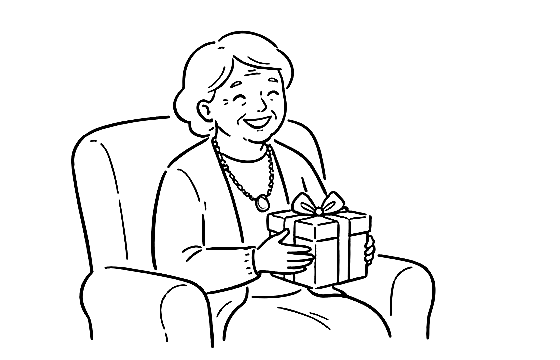
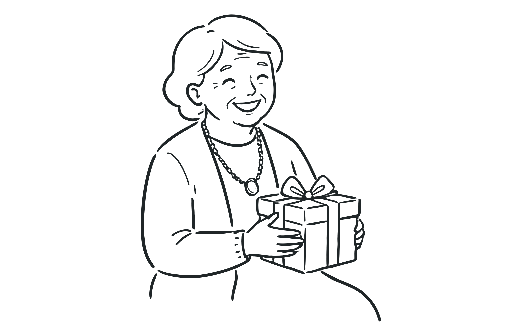
feat: v úvodní obrazovce se střídají čtyři kreslené scény
Zadavatel dodal předlohu se čtyřmi scénami v mřížce 2x2 (verze bez pozadí —
bez křesla, okna a zahrady). Rozřezal je scripts/kresby-z-predlohy.py, který
zůstává v repozitáři, aby šla výměna zopakovat, až předloha přijde znovu.

Tři věci, které v tom skriptu nejsou zřejmé:
  * Papír se odbarvuje s prahem 165 a plynulým přechodem. Při mírnějším
    prahu zůstane po podkladu našedlý čtverec — přesně to zadavatel jednou
    vytkl slovy „vypadá to jako špinavé".
  * Tah dostane jednu plnou barvu a všechny odstíny nese průhlednost.
    Předloha je černá linka, takže se nic neztrácí, ale barevné kanály se
    tím srovnají do jednolité plochy: soubory spadly ze 158 kB na 10 kB.
  * NEZVĚTŠUJE SE. Průhlednost je v předloze skoro dvouhodnotová a skvěle se
    komprimuje; jakékoli přepočítání z ní udělá plynulý přechod podél každé
    linky. Naměřeno 10 kB nativně, 87 kB při 1,4x, 158 kB při dvojnásobku —
    a bez jediného detailu navíc, protože v předloze žádný není. Ostřejší
    kresba chce větší předlohu, ne větší soubor.

Všechny čtyři mají shodné plátno a postavy stojí na společné spodní hraně,
takže se při výměně nehne stránka ani postava. Pro čtečku obrazovky je to
jeden obrázek s jedním popisem, ne čtyři — jinak by se popis sám od sebe
měnil pod rukama někomu, kdo si ho nechává předčítat.

Střídačka stojí na neaktivní kartě, při najetí myší a při zakázaném pohybu
se vůbec nerozjede. Zastavit ji ale nejde z klávesnice ani na dotyku —
[…]

diff --git a/src/styles/aktualni.css b/src/styles/aktualni.css
@@ -207,7 +207,14 @@
    takže dokreslení je vždycky vidět. Klidový stav: vykreslený celý. */
 @supports (animation-timeline: view()) {
   .f-nit-predel path {
-    animation: f-nit-tah linear both;
+    /* Dlouhý zápis ze stejného důvodu jako u páteře výš — zkratka se při
+       minifikaci slepí s `animation-timeline` do neplatného tvaru a celé
+       pravidlo spadne pod stůl. Tady ta zkratka zůstala i po opravě páteře
+       a v sestaveném webu se steh přes předěl nekreslil vůbec. */
+    animation-name: f-nit-tah;
+    animation-timing-function: linear;
+    animation-fill-mode: both;
+    animation-duration: auto;
     animation-timeline: view();
     animation-range: cover 0% cover 60%;
   }
@@ -242,7 +249,15 @@
 
 @supports (animation-timeline: view()) {
   .f-par {
-    animation: f-hloubka-posun linear both;
+    /* Dlouhý zápis, viz nit výš. Byl to třetí a poslední kus souboru, kde
+       zkratka zůstala — paralaxa tím v Chromu nejela vůbec, zatímco
+       v Safari a Firefoxu ano, protože ty jdou záložní cestou přes skript
+       a `--dojeto`. Prohlížeč, ve kterém se to zkouší, tak rozhodoval
+       o tom, jestli je chyba vidět. */
+    animation-name: f-hloubka-posun;
+    animation-timing-function: linear;
+    animation-fill-mode: both;
+    animation-duration: auto;
     animation-timeline: view();
     animation-range: cover 0% cover 100%;
   }
@@ -854,12 +869,17 @@ body:not(.f-skript-jede) .f-otocka {
 }
 
 /* Otáčená vrstva. `grid` s oběma stranami v téže buňce drží stejnou výšku
-   v obou stavech (bod 3 výše). Křivka i doba jsou stejné jako u zvedání
-   karet na stránce, jen delší — otočení je větší pohyb. */
+   v obou stavech (bod 3 výše).
+
+   Doba otočení je delší než u ostatního pohybu na stránce a je to schválně.
+   Původních 560 ms bylo podle zadavatele moc rychlých — kartička švihla
+   a člověk nestihl zaregistrovat, že se otočila, jen že se něco mihlo.
+   Skoro celou sekundu je na takhle velký pohyb tak akorát: je vidět, že se
+   list obrací, a přitom se na výsledek nečeká. */
 .f-otacky-ano .f-otocka-vnitrek {
   display: grid;
   transform-style: preserve-3d;
-  transition: transform 560ms cubic-bezier(0.22, 0.8, 0.32, 1);
+  transition: transform 900ms cubic-bezier(0.22, 0.8, 0.32, 1);
 }
 
 .f-otacky-ano .f-strana {
@@ -1039,5 +1059,56 @@ body:not(.f-skript-jede) .f-otocka {
 
   .f-otacky-ano .f-otocka-odmena .f-otocka-sipka {
     margin-left: auto;
+  }
+}
+
+/* ==========================================================================
+   STŘÍDAČKA KRESEB — úvodní obrazovka
+   (nová pravidla patří na konec souboru, ať se nepobijí s tím, co už tu je)
+
+   Čtyři kreslené scény na jednom místě, prolínají se jedna do druhé.
+   Přehazování třídy `je-videt` obstarává skript v Hero.astro; tady je jen
+   to, jak přechod vypadá.
+
+   MÍSTO SE NESMÍ HÝBAT. První kresba leží normálně v toku a určuje výšku,
+   zbylé tři jsou přes ni. Všechny čtyři mají shodný rozměr souboru (postará
+   se o to scripts/kresby-z-predlohy.py) a v šabloně vyplněné `width`
+   a `height`, takže si prohlížeč místo rezervuje ještě před stažením
+   obrázku a text vedle nikam neuskočí.
+
+   BEZ SKRIPTU zůstane vidět první kresba a nic se neděje — třídu `je-videt`
+   má rovnou v šabloně. Prázdné místo tam tedy nevznikne ani tehdy, když
+   JavaScript neproběhne.
+   ========================================================================== */
+
+.f-strid {
+  position: relative;
+}
+
+.f-strid-kresba {
+  width: 100%;
+  height: auto;
+  opacity: 0;
+  /* Dlouhé prolnutí schválně: výměna má být sotva postřehnutelná změna
+     v koutě oka, ne přepnutí snímku. */
+  transition: opacity 1.2s ease-in-out;
+}
+
+.f-strid-kresba:not(:first-child) {
+  position: absolute;
+  top: 0;
+  left: 0;
+}
+
+.f-strid-kresba.je-videt {
+  opacity: 1;
+}
+
+/* Při zakázaném pohybu se střídačka vůbec nerozjede (hlídá si to skript),
+   takže tu zbývá jen zrušit prolnutí — kdyby se třída přece jen přehodila,
+   ať se to stane bez pohybu. */
+@media (prefers-reduced-motion: reduce) {
+  .f-strid-kresba {
+    transition: none;
   }
 }

diff --git a/scripts/kresby-z-predlohy.py b/scripts/kresby-z-predlohy.py
@@ -1,0 +1,135 @@
+"""
+Rozřezání dodané předlohy na čtyři kresby pro úvodní obrazovku.
+
+Předloha je jeden obrázek 1408x768 se čtyřmi scénami v mřížce 2x2, nakreslený
+černou linkou na papírovém podkladu. Na web potřebujeme čtyři samostatné
+soubory s PRŮHLEDNÝM pozadím, aby seděly na jakoukoli plochu.
+
+DVĚ VĚCI, KTERÉ SE TU ŘEŠÍ A NEJSOU SAMOZŘEJMÉ:
+
+1. PAPÍR MUSÍ ZMIZET ÚPLNĚ. Podklad není čistě bílý, má texturu. Když se
+   odbarví jen to nejsvětlejší, zůstane po něm našedlý čtverec a vypadá to
+   jako špína — přesně to už jednou zadavatel vytkl. Práh je proto vysoko
+   (165) a mezi ním a plnou černou je plynulý přechod, aby linka neměla
+   zubaté okraje.
+
+2. VŠECHNY ČTYŘI MUSÍ MÍT STEJNÝ ROZMĚR. Na úvodní obrazovce se střídají
+   v jednom místě; kdyby měla každá jiný poměr stran, stránka by při každé
+   výměně poskočila. Kresby se proto nejdřív oříznou natěsno k lince a pak
+   se vloží doprostřed společného plátna, jehož velikost určí ta největší
+   z nich. Vodorovně na střed, svisle ke spodní hraně — postavy tak stojí
+   na společné čáře a nepoletují nahoru a dolů.
+"""
+
+import subprocess
+import sys
+from pathlib import Path
+
+from PIL import Image
+
+PREDLOHA = Path(sys.argv[1])
+KAM = Path(sys.argv[2])
+
+# Pořadí odpovídá mřížce 2x2: vlevo nahoře, vpravo nahoře, vlevo dole, …
+NAZVY = [
+    "kresba-babicka-darek",
+    "kresba-babicka-kytice",
+    "kresba-babicka-kvetina",
+    "kresba-babicka-s-detmi",
+]
+
+PRAH_PAPIR = 165   # světlejší než tohle je papír → úplně průhledné
+PRAH_INKOUST = 90  # tmavší než tohle je linka → úplně neprůhledné
+OKRAJ = 14         # průhledný lem, aby se tah neořízl
+
+# ZVĚTŠOVAT SE NEVYPLATÍ, i když je předloha na úvodní obrazovku spíš malá
+# (jedna scéna je ve výřezu 704x384). V předloze je průhlednost skoro
+# dvouhodnotová — buď papír, nebo tah — a taková se komprimuje skvěle.
+# Jakékoli přepočítání z ní udělá plynulý přechod podél každé linky a soubor
+# nabobtná: naměřeno 10 kB při původní velikosti, 87 kB při 1,4x a 158 kB
+# při dvojnásobku. Za to se nekupuje žádný detail navíc — ten v předloze
+# prostě není, jen by se hladily hrany. Ostřejší kresby se dosáhne jedině
+# tím, že se předloha vygeneruje větší.
+ZVETSENI = 1
+
+# Barva tahu. Tmavá, ale ne úplně černá — sedne to k tyrkysové a meruňkové
+# na zbytku stránky líp než plná čerň.
+INKOUST = (32, 38, 40)
+
+
+def bez_pozadi(vyrez: Image.Image) -> Image.Image:
+    """Papír na průhledno, linka zůstane. Mezi prahy plynulý přechod."""
+    seda = vyrez.convert("L")
+    rozsah = PRAH_PAPIR - PRAH_INKOUST
+
+    def kryti(jas: int) -> int:
+        if jas >= PRAH_PAPIR:
+            return 0
+        if jas <= PRAH_INKOUST:
+            return 255
+        return round((PRAH_PAPIR - jas) / rozsah * 255)
+
+    alfa = seda.point([kryti(j) for j in range(256)])
+
+    # Linka dostane JEDNU plnou barvu a všechny přechody nese průhlednost.
+    # Předloha je černá kresba, takže se tím nic neztrácí — odstíny v ní jsou
+    # jen vyhlazené okraje tahu, a ty umí alfa sama. Zato se tím z barevných
+    # kanálů stane jednolitá plocha, která se komprimuje skoro na nic:
+    # se zachovanou barvou z předlohy měly soubory 95 až 193 kB, takhle
+    # zlomek. Na úvodní obrazovce se střídají čtyři, takže na velikosti
+    # opravdu záleží.
+    ven = Image.new("RGB", vyrez.size, INKOUST)
+    ven.putalpha(alfa)
+    return ven
+
+
+def orizni_k_lince(obraz: Image.Image) -> Image.Image:
+    """Odřízne prázdno kolem kresby. Rozhoduje alfa, ne barva."""
+    ram = obraz.split()[3].getbbox()
+    return obraz.crop(ram) if ram else obraz
+
+
+def main() -> None:
+    predloha = Image.open(PREDLOHA)
+    sirka, vyska = predloha.size
+    pul_s, pul_v = sirka // 2, vyska // 2
+
+    kresby = []
+    for poradi, nazev in enumerate(NAZVY):
+        sloupec, radek = poradi % 2, poradi // 2
+        vyrez = predloha.crop(
+            (sloupec * pul_s, radek * pul_v, (sloupec + 1) * pul_s, (radek + 1) * pul_v)
+        )
+        kresby.append((nazev, orizni_k_lince(bez_pozadi(vyrez))))
+
+    # Společné plátno podle té největší kresby (viz bod 2 v hlavičce).
+    platno_s = max(k.width for _, k in kresby) + 2 * OKRAJ
+    platno_v = max(k.height for _, k in kresby) + 2 * OKRAJ
+    print(f"společné plátno: {platno_s}x{platno_v}")
+
+    KAM.mkdir(parents=True, exist_ok=True)
+    for nazev, kresba in kresby:
+        plocha = Image.new("RGBA", (platno_s, platno_v), (0, 0, 0, 0))
+        plocha.paste(
+            kresba,
+            ((platno_s - kresba.width) // 2, platno_v - OKRAJ - kresba.height),
+        )
+
+        if ZVETSENI != 1:
+            plocha = plocha.resize(
+                (platno_s * ZVETSENI, platno_v * ZVETSENI), Image.LANCZOS
+            )
+
+        png = KAM / f"{nazev}.png"
+        plocha.save(png)
+        subprocess.run(
+            ["cwebp", "-quiet", "-lossless", "-m", "6", str(png),
+             "-o", str(KAM / f"{nazev}.webp")],
+            check=True,
+        )
+        png.unlink()
+        velikost = (KAM / f"{nazev}.webp").stat().st_size
+        print(f"  {nazev}.webp  {velikost // 1024} kB  (kresba {kresba.width}x{kresba.height})")
+
+
+main()
